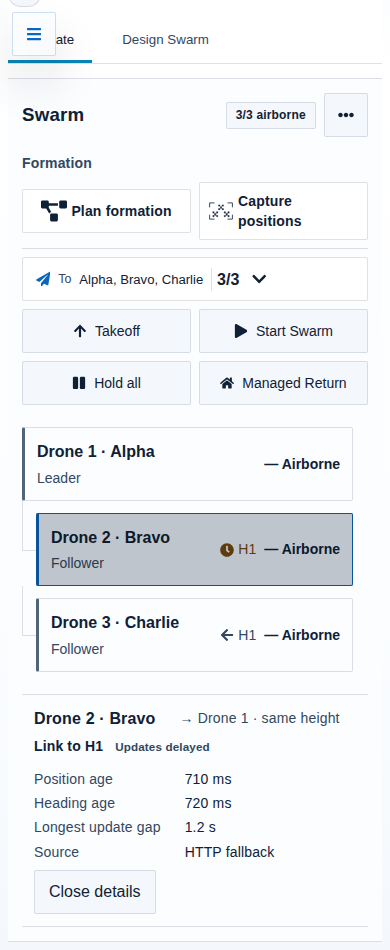
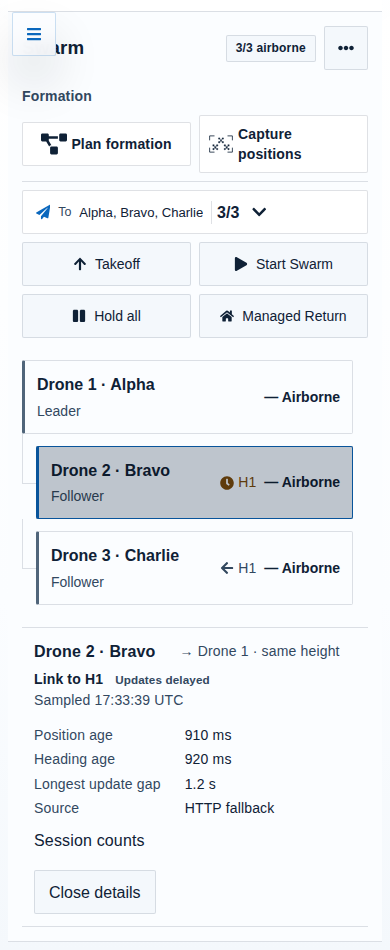
Match the illustrated delayed sample to the source age policy

diff --git a/app/dashboard/drone-dashboard/src/components/SwarmLinkObservation.test.js b/app/dashboard/drone-dashboard/src/components/SwarmLinkObservation.test.js
@@ -6,7 +6,7 @@ import SwarmClusterDiagram from './SwarmClusterDiagram';
 const leader = { hw_id: '1', follow: '0' };
 const follower = { hw_id: '2', follow: '1', available: true, link_observation: {
   state: 'delayed', session_id: 'run', hw_id: '2', leader_hw_id: '1', valid_until_ms: 11000,
-  position_age_ms: 712, heading_age_ms: null, transport: 'http-fallback',
+  position_age_ms: 912, heading_age_ms: 910, max_gap_ms: null, transport: 'http-fallback',
 } };
 test.each([
   [{}, 'other run', 6000],
@@ -28,8 +28,8 @@ test('the existing aircraft inspector carries the link and accepts an explicit r
   expect(row).toHaveAccessibleDescription('Leader H1 · Updates delayed');
   fireEvent.click(row);
   expect(select).toHaveBeenCalledWith('2');
-  expect(screen.getByText('712 ms')).toBeVisible();
-  expect(screen.getByText('Heading age').nextSibling).toHaveTextContent('Unknown');
+  expect(screen.getByText('912 ms')).toBeVisible();
+  expect(screen.getByText('Longest update gap').nextSibling).toHaveTextContent('Unknown');
   expect(screen.getByText('HTTP fallback')).toBeVisible();
   expect(readLeaderLink(leader, 'run', 1)).toBeNull();
 });
